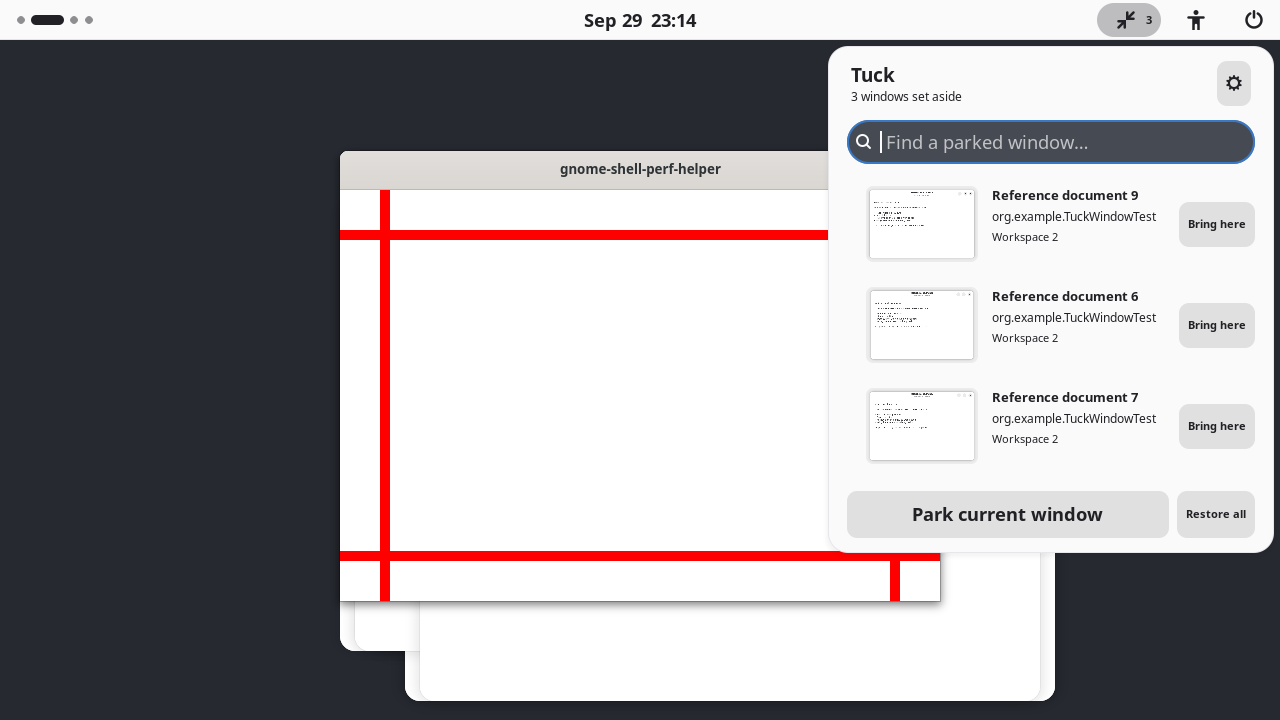
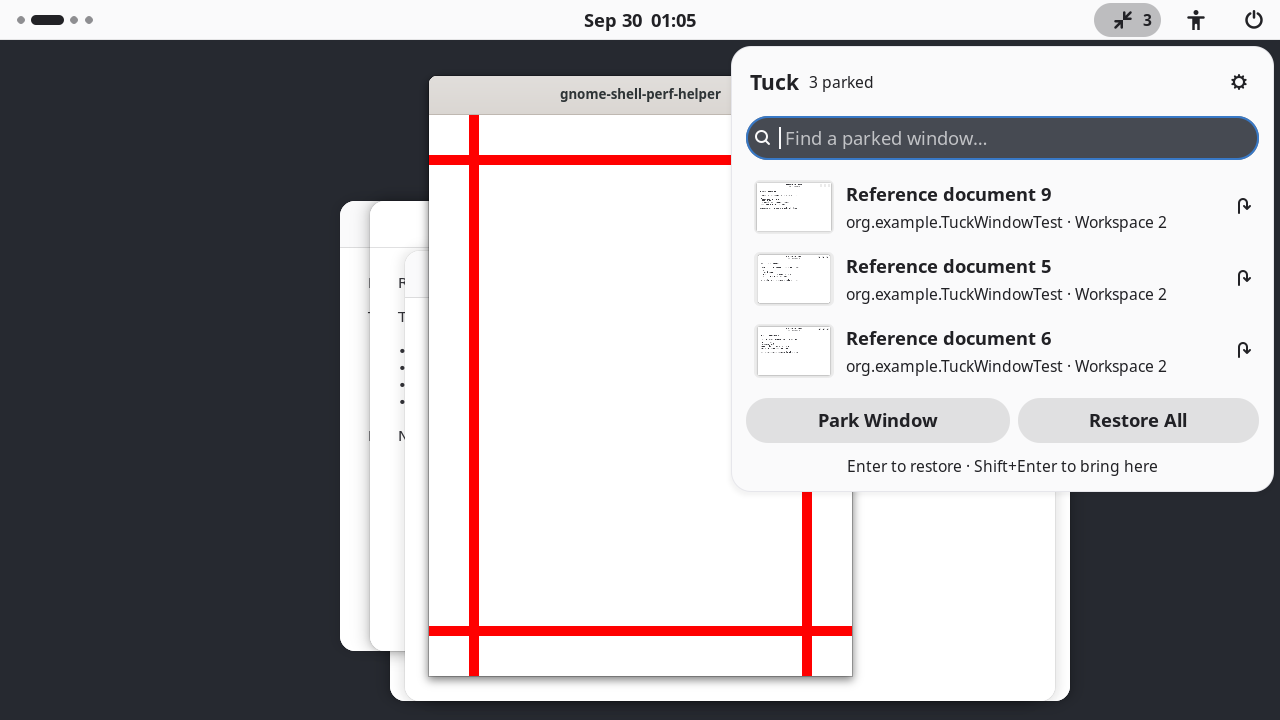
Record the 0.3.0 interface refresh and native test results
Document the new keyboard flow and both loader packages. Refresh the native screenshots and record all sixteen compatibility runs, long-title layout checks, and small-display coverage.

Changed region(s): [[0.25, 0.0611, 1.0, 0.9778], [0.5, 0.0, 0.5625, 0.0611], [0.875, 0.0, 0.9062, 0.0306]]

diff --git a/tests/native.js b/tests/native.js
@@ -27,14 +27,25 @@ function assert(condition, message) {
     console.log(`TUCK PASS: ${message}`);
 }
 
-async function screenshot(name) {
+async function screenshot(name, actor = null) {
     const directory = GLib.getenv('TUCK_SCREENSHOT_DIR');
     if (!directory)
         return;
     GLib.mkdir_with_parents(directory, 0o755);
     const file = Gio.File.new_for_path(`${directory}/${name}.png`);
     const stream = file.replace(null, false, Gio.FileCreateFlags.NONE, null);
-    await new Shell.Screenshot().screenshot(false, stream);
+    const capture = new Shell.Screenshot();
+    if (actor) {
+        const [left, top] = actor.get_transformed_position();
+        const [width, height] = actor.get_transformed_size();
+        const x = Math.max(0, Math.floor(left) - 8);
+        const y = Math.max(0, Math.floor(top) - 8);
+        await capture.screenshot_area(x, y,
+            Math.min(global.screen_width - x, Math.ceil(width) + 16),
+            Math.min(global.screen_height - y, Math.ceil(height) + 16), stream);
+    } else {
+        await capture.screenshot(false, stream);
+    }
     stream.close(null);
 }
 
@@ -43,6 +54,13 @@ export function init() {
     const pointer = global.stage.context.get_backend().get_default_seat()
         .create_virtual_device(Clutter.InputDeviceType.POINTER_DEVICE);
     pointer.notify_absolute_motion(GLib.get_monotonic_time(), 640, 360);
+    // The asynchronous module import can outlast a headless Shell startup.
+    if (Main.layoutManager._startingUp === false) {
+        GLib.idle_add(GLib.PRIORITY_DEFAULT_IDLE, () => {
+            Scripting.runPerfScript({run, METRICS});
+            return GLib.SOURCE_REMOVE;
+        });
+    }
 }
 
 export async function run() {
@@ -83,6 +101,7 @@ export async function run() {
     shelf.toggle();
     await Scripting.sleep(500);
     assert(shelf._list.get_n_children() === 3, 'shelf shows three entries');
+    const shelfWidth = shelf.menu.actor.get_transformed_size()[0];
     await screenshot('shelf');
     await press([Clutter.KEY_Down]);
     assert(global.stage.get_key_focus()?._tuckWindow === windows[0], 'Down moves from search to the first row');
@@ -163,6 +182,9 @@ export async function run() {
     const longWindow = shelf._filteredWindows[0];
     assert(shelf._rowControls.get(longWindow).restore.accessible_name.includes(longWindow.get_title()),
         'full long title is retained for accessibility');
+    await Scripting.sleep(150);
+    assert(shelf.menu.actor.get_transformed_size()[0] <= shelfWidth + 1,
+        'a long window title keeps the popup at its normal width');
     await screenshot('search-long-title');
     shelf.menu.close();
     longWindow.delete(global.get_current_time());
@@ -170,6 +192,13 @@ export async function run() {
     assert(store.windows.length === 8, 'closing a parked real window removes its record');
     store.restoreAll();
     const interfaceSettings = new Gio.Settings({schema_id: 'org.gnome.desktop.interface'});
+    for (const window of documents.filter(window => window !== longWindow).slice(0, 3))
+        store.park(window);
+    shelf.toggle();
+    await Scripting.sleep(300);
+    await screenshot('documents');
+    await screenshot('documents-menu', shelf.menu.actor);
+    shelf.menu.close();
     interfaceSettings.set_string('color-scheme', 'prefer-light');
     interfaceSettings.set_double('text-scaling-factor', 1.25);
     for (const window of documents.filter(window => window !== longWindow).slice(0, 3))

diff --git a/docs/verification.md b/docs/verification.md
@@ -1,6 +1,6 @@
 # Verification record
 
-29 September 2026. Tuck v0.2.0 was tested on sixteen GNOME Shell generations, from 3.32 through 51. This record separates native behavior checks from static checks and hosted CI.
+29 September 2026. Tuck v0.3.0 was tested on sixteen GNOME Shell generations, from 3.32 through 51. This record separates native behavior checks from static checks and hosted CI.
 
 ## Local checks
 
@@ -35,10 +35,10 @@ Each row ran an actual GNOME Shell/Mutter compositor from official Fedora packag
 
 - Load the packaged extension and open an empty shelf.
 - Map nine real application windows; park and open the shelf with actual Mutter keyboard input.
-- Allocate compositor thumbnails, navigate into and through all nine entries, and scroll the last focused row into view.
-- Type search text, show no results, switch to icons, restore with Enter, and release thumbnail actors when the popup closes.
-- Restore externally, retain a window's workspace, move a window with Bring here, and restore all owned windows.
-- Load native preferences, change the preview setting, reject conflicting and unmodified shortcuts, save Ctrl/Super and Alt-only shortcuts, cancel, clear, and reset.
+- Allocate compositor thumbnails and readable title columns, browse windows with Up/Down, return to search with Ctrl+F, navigate through all nine entries, and scroll the last focused row into view.
+- Type search text, clear with Escape or the clear icon, show no results, switch to icons, restore with Enter, show focus tooltips, and release thumbnail actors and tooltip timers when the popup closes.
+- Restore externally, retain a window's workspace, move a window with actual Shift+Enter keyboard input, and restore all owned windows.
+- Load native preferences with native shortcut keycaps, change the preview setting, reject conflicting and unmodified shortcuts, save Ctrl/Super and Alt-only shortcuts, cancel, clear, and reset.
 - Disable and re-enable, reveal owned windows, preserve ordinary minimize, remove the indicator, and start with an empty store.
 
 Preferences used GTK 3 on 3.32–3.38, GTK 4 on 40–44, and GTK 4/libadwaita on 45–51. GNOME 45's libadwaita 1.4 `MessageDialog` fallback was exercised, as were newer `AlertDialog` versions. Each preferences process must exit successfully and write a unique per-run result file; an old marker cannot make a run pass.
@@ -47,9 +47,9 @@ The GTK 3 shortcut checks send native GDK test key events. Their fixture opts in
 
 ## Additional GNOME 51 checks
 
-The full suite also passed against GNOME Shell/Mutter 51.0, GJS 1.90.0, GTK 4.24.0, and libadwaita 1.10.0. [Native results](native-results.txt) record its assertions. It covers a Unicode long title and accessible name, closure of a parked document, focus after a title notification, and light appearance at text scale 1.25.
+The full suite also passed against GNOME Shell/Mutter 51.0, GJS 1.90.0, GTK 4.24.0, and libadwaita 1.10.0. [Native results](native-results.txt) record its assertions. It covers a Unicode long title and accessible name, a stable popup width with long titles, closure of a parked document, focus after a title notification, and light appearance at text scale 1.25.
 
-[Shell](screenshots/shelf.png), [scrolling](screenshots/many-windows.png), [Unicode search](screenshots/search-long-title.png), [light appearance](screenshots/light-large-text.png), and [preferences](screenshots/preferences.png) screenshots were refreshed from this run and inspected. Window content is test-fixture content.
+[Shell](screenshots/documents.png), [scrolling](screenshots/many-windows.png), [Unicode search](screenshots/search-long-title.png), [light appearance](screenshots/light-large-text.png), and [preferences](screenshots/preferences.png) screenshots were refreshed from this run and inspected. Window content is test-fixture content. The README uses a direct area capture of the same live popup.
 
 ## Reproduce the compatibility suite
 
@@ -91,7 +91,9 @@ SHELL_PERF_MODULE=compat gnome-shell --wayland --headless \
 
 For GNOME 3.32–3.38, prepare the matching classic fixture, unset `WAYLAND_DISPLAY`, and run `SHELL_PERF_MODULE=compat gnome-shell --x11` on a separate Xvfb display. Start `/usr/libexec/gnome-shell-perf-helper` in the same D-Bus session first. The preparation script handles the older generator-based performance harness and extracts the installed preferences host's resources.
 
-An isolated GNOME 51 launch stalled before the suite started; a fresh launch completed every assertion and exited normally. The isolated matrix lacked login/GDM, PolicyKit, and other full-session services, which produced warnings. Trusted fixture image loading used a disabled Glycin sandbox where the disposable environment could not provide one. That override is absent from Tuck and is not an installation requirement. A normal desktop should retain its normal image sandbox.
+The matrix passed 1,028 assertions across sixteen sessions. An additional GNOME 49 fixture checked popup bounds at 640×480 with text scale 1.5 (x=44, y=48, width=590, height=393) and retained all nine rows after changing the shelf to RTL. This was a layout check, not a translated-language or screen-reader test.
+
+Fast headless GNOME 50–51 sessions sometimes finished startup before Shell connected its automation handler. The test fixtures now invoke the standard performance runner when startup has already finished. No Shell source or Tuck runtime is patched for this workaround. The isolated matrix lacked login/GDM, PolicyKit, and other full-session services, which produced warnings. Trusted fixture image loading used a disabled Glycin sandbox where the disposable environment could not provide one. That override is absent from Tuck and is not an installation requirement. A normal desktop should retain its normal image sandbox.
 
 ## Package integrity and limits
 
@@ -99,8 +101,8 @@ The archives contain only ten JavaScript modules, metadata, stylesheet, source a
 
 | Release archive | Native-tested SHA-256 |
 | --- | --- |
[4 lines of base64/hex data omitted]
 
 GNOME 3.30 and earlier use an older panel contract that this implementation does not support. Physical GPU/multi-monitor configurations, screen readers, touch input, translated keyboard layouts, extended real-application usage, and combinations with other extensions remain untested. Passing these fixtures is not a complete accessibility certification or a guarantee for every distribution patch.
 

diff --git a/README.md b/README.md
@@ -2,9 +2,11 @@
 
 A little room to focus. Park a window for later, then find it in a small shelf in the top panel.
 
+Keep a reference document, spare terminal, or paused task handy without closing it or setting up a dedicated workspace.
+
 Tuck collects only windows you explicitly park. Each entry shows a thumbnail, title, application, and workspace. Click the entry to restore it on its existing workspace, or choose **Bring here** to move it to your current one.
 
-![Tuck running in GNOME Shell 51](docs/screenshots/shelf.png)
+![Tuck running in GNOME Shell 51](docs/screenshots/documents-menu.png)
 
 ## Use
 
@@ -12,12 +14,14 @@ Tuck collects only windows you explicitly park. Each entry shows a thumbnail, ti
 | --- | --- |
 | Park the focused window | Super + Ctrl + H |
 | Open the shelf | Super + Ctrl + Space |
-| Restore the first search result | Enter |
-| Move from search into the results | Down |
+| Restore the first search result or selected window | Enter |
+| Bring the first result or selected window to this workspace | Shift + Enter |
+| Browse windows; return to search from the first row | Down / Up |
+| Focus search | Ctrl + F |
 | Navigate controls | Tab / Shift + Tab |
-| Dismiss the shelf | Escape |
+| Clear search, then dismiss the shelf | Escape |
 
-The panel menu also has **Park current window**, **Restore all**, and a preferences button. Preferences let you change or clear both shortcuts and turn thumbnails off.
+The panel menu also has **Park Window**, **Restore All**, and a preferences button. Preferences let you change or clear both shortcuts and turn thumbnails off.
 
 Normal minimizing, Overview, and Alt-Tab keep working. Restoring a parked window elsewhere removes it from Tuck. Closing an application removes its entry. Turning the extension off reveals its remaining parked windows without changing their workspaces or focusing them. No windows, titles, or screenshots are saved to disk.
 
@@ -25,12 +29,12 @@ Thumbnails use compositor clones while the popup is open. Minimized applications
 
 ## Install
 
-Download the matching ZIP from the [v0.2.0 prerelease](https://github.com/SoulSniper-V2/tuck/releases/tag/v0.2.0).
+Download the matching ZIP from the [v0.3.0 prerelease](https://github.com/SoulSniper-V2/tuck/releases/tag/v0.3.0).
 
 | GNOME Shell | Package |
 | --- | --- |
-| 45, 46, 47, 48, 49, 50, 51 | `tuck-v0.2.0.shell-extension.zip` |
-| 3.32, 3.34, 3.36, 3.38, 40, 41, 42, 43, 44 | `tuck-v0.2.0-legacy.shell-extension.zip` |
+| 45, 46, 47, 48, 49, 50, 51 | `tuck-v0.3.0.shell-extension.zip` |
+| 3.32, 3.34, 3.36, 3.38, 40, 41, 42, 43, 44 | `tuck-v0.3.0-legacy.shell-extension.zip` |
 
 Both packages use **tuck@tuck-extension** and preserve the same settings. The modern package uses ECMAScript modules; the legacy package uses GNOME's older loader. Use the matching package when upgrading across GNOME 44 → 45. GNOME 3.30 and earlier are unsupported.
 
@@ -38,7 +42,7 @@ Check your version with `gnome-shell --version`. On GNOME 3.34 or later:
 
 ```sh
 # Substitute the legacy ZIP on GNOME 3.34–44.
-gnome-extensions install --force tuck-v0.2.0.shell-extension.zip
+gnome-extensions install --force tuck-v0.3.0.shell-extension.zip
 ```
 
 Log out and back in so Shell discovers the installed extension, then:
